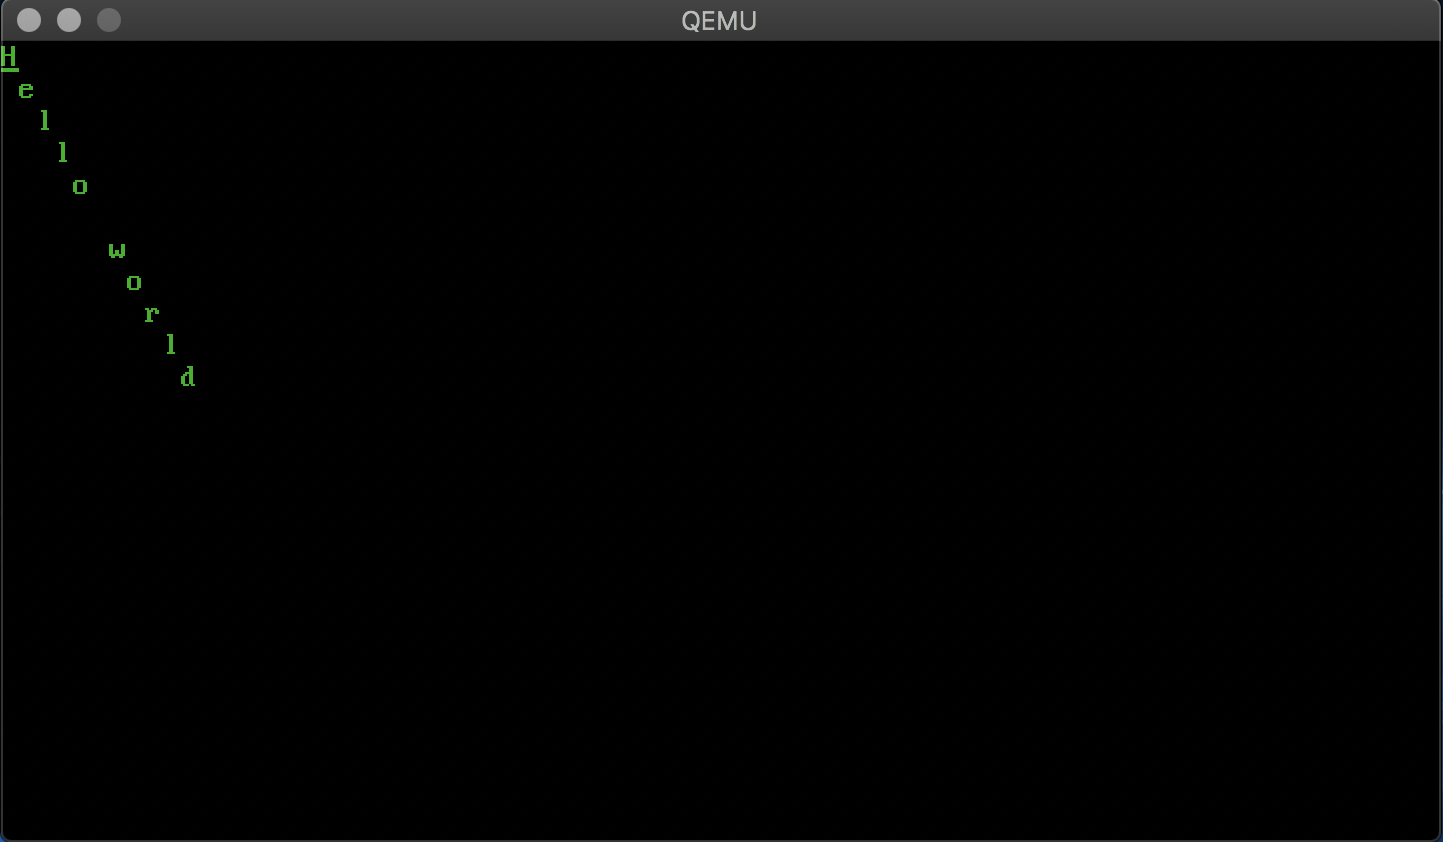
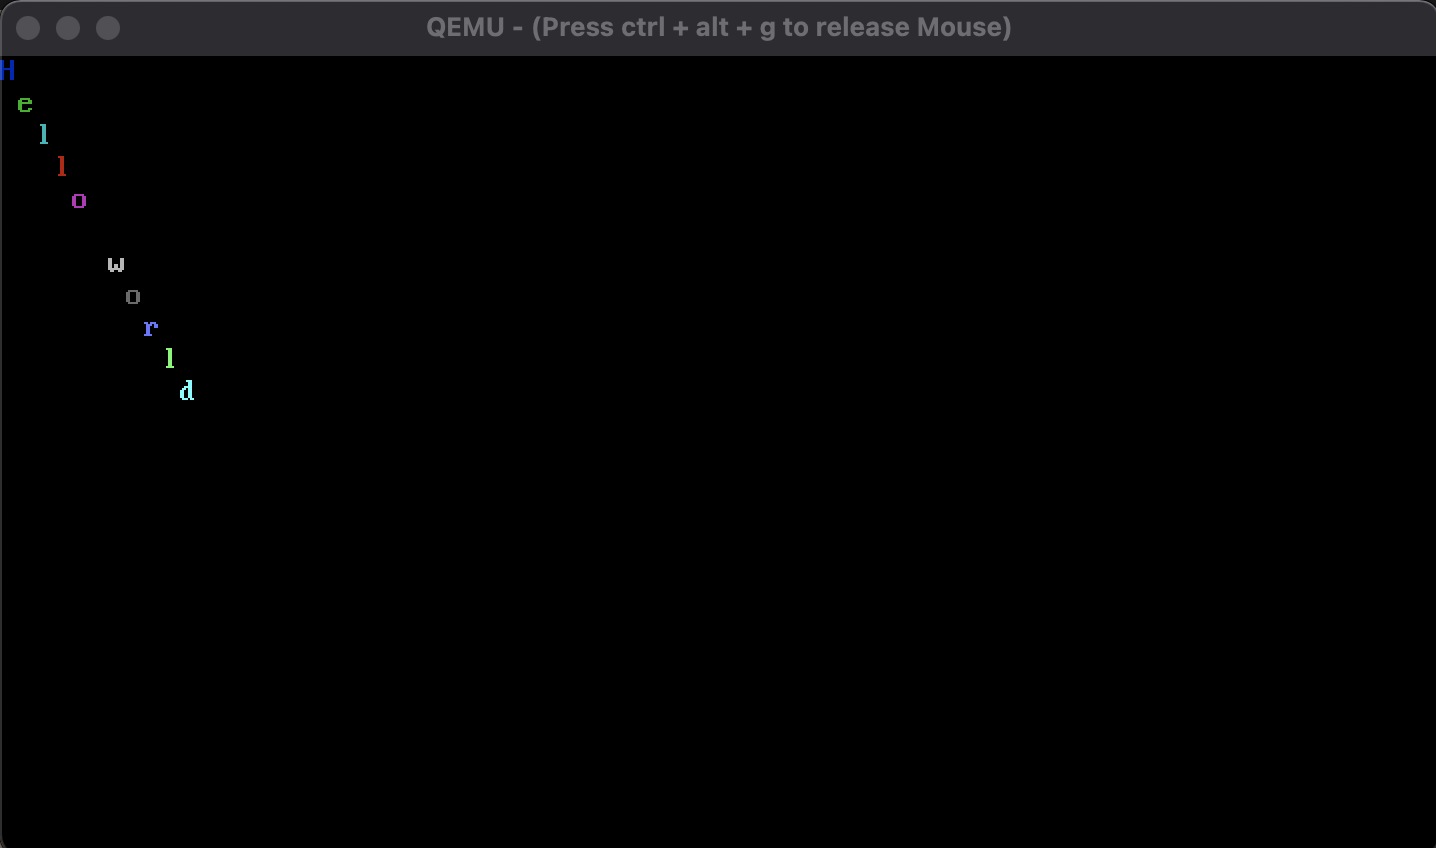
main: Print in different colors

diff --git a/src/main.rs b/src/main.rs
@@ -26,9 +26,10 @@ mod io;
 mod keyboard;
 mod mem;
 mod serial_port;
-mod vga_device;
+mod vga;
+
 use mem::frame_allocator::FrameAllocator;
-use vga_device::{VgaColor, VgaDevice};
+use vga::VgaDevice;
 
 fn initialize(info: &'static BootInfo) {
   dbg_print::initialize();
@@ -55,11 +56,9 @@ pub fn _start(info: &'static BootInfo) -> ! {
   let v = vec![1; 100];
   dbg!("{:x?} -> {}", (&v[42]) as *const _, v[42]);
   let mut vga = VgaDevice::new();
-  vga.set_color(VgaColor::Black);
-  vga.set_background_color(VgaColor::Gray);
   for (i, &c) in b"Hello world".iter().enumerate() {
+    vga.set_color(unsafe { core::mem::transmute(i as u8 + 1) });
     vga.write_char(i, i, c);
-    vga.reset_color();
   }
   ax_os::hlt_loop();
 }

diff --git a/src/keyboard/mod.rs b/src/keyboard/mod.rs
@@ -65,7 +65,7 @@ static mut MODIFIERS: KeyModifiers = KeyModifiers::empty();
 pub fn handle_keyboard_event(scan_code: u8) {
   let (key, pressed) = match scan_set_1::decode_key(scan_code) {
     Some(pair) => pair,
-    None => return dbg!("Warn: Invalid scan code {}", scan_code),
+    None => return dbg!("Warn: Invalid scan code {:x}", scan_code),
   };
   unsafe { MODIFIERS.update(key, pressed) };
   if pressed {
